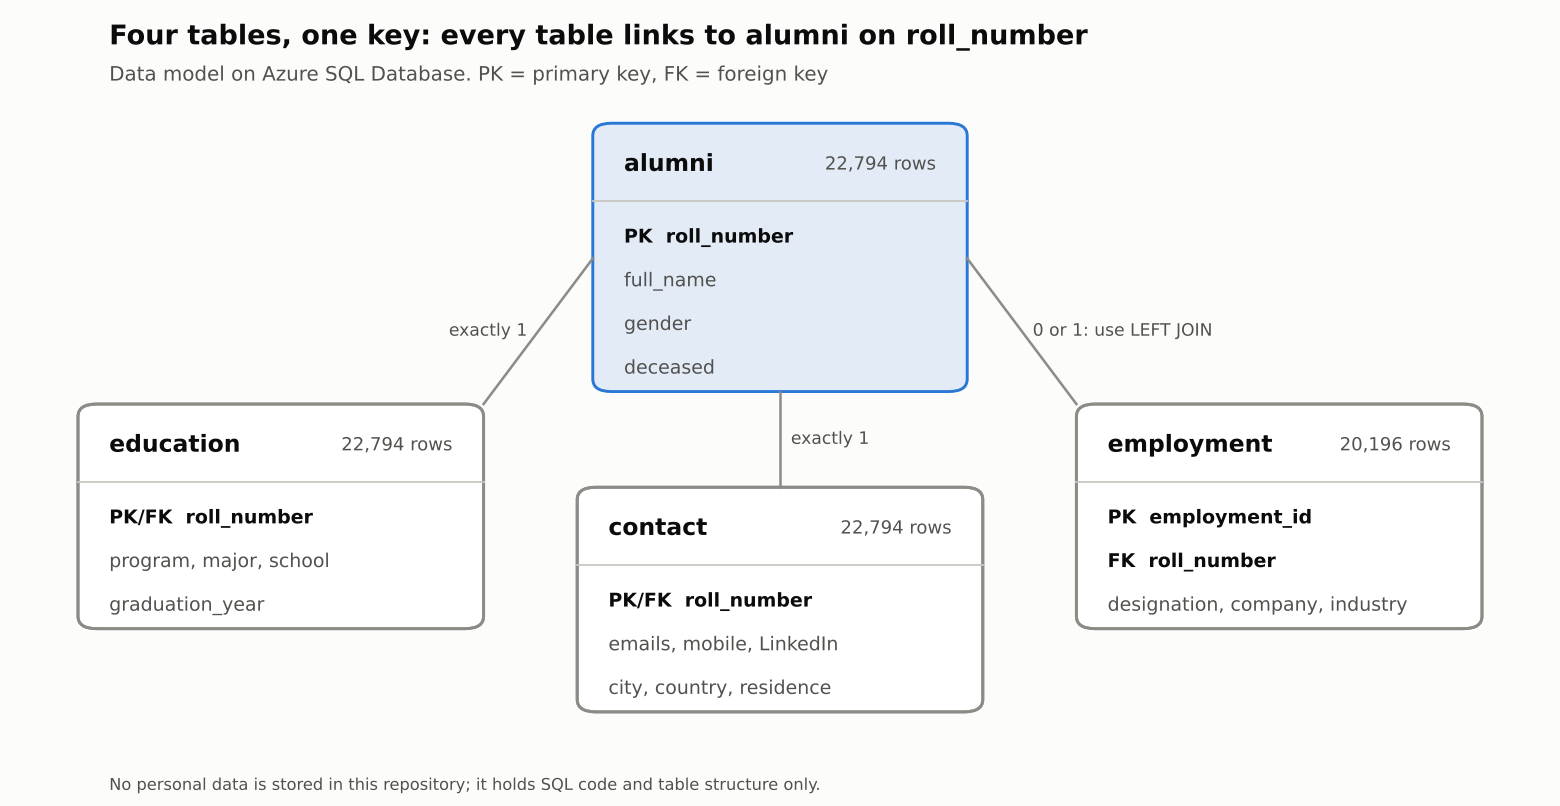
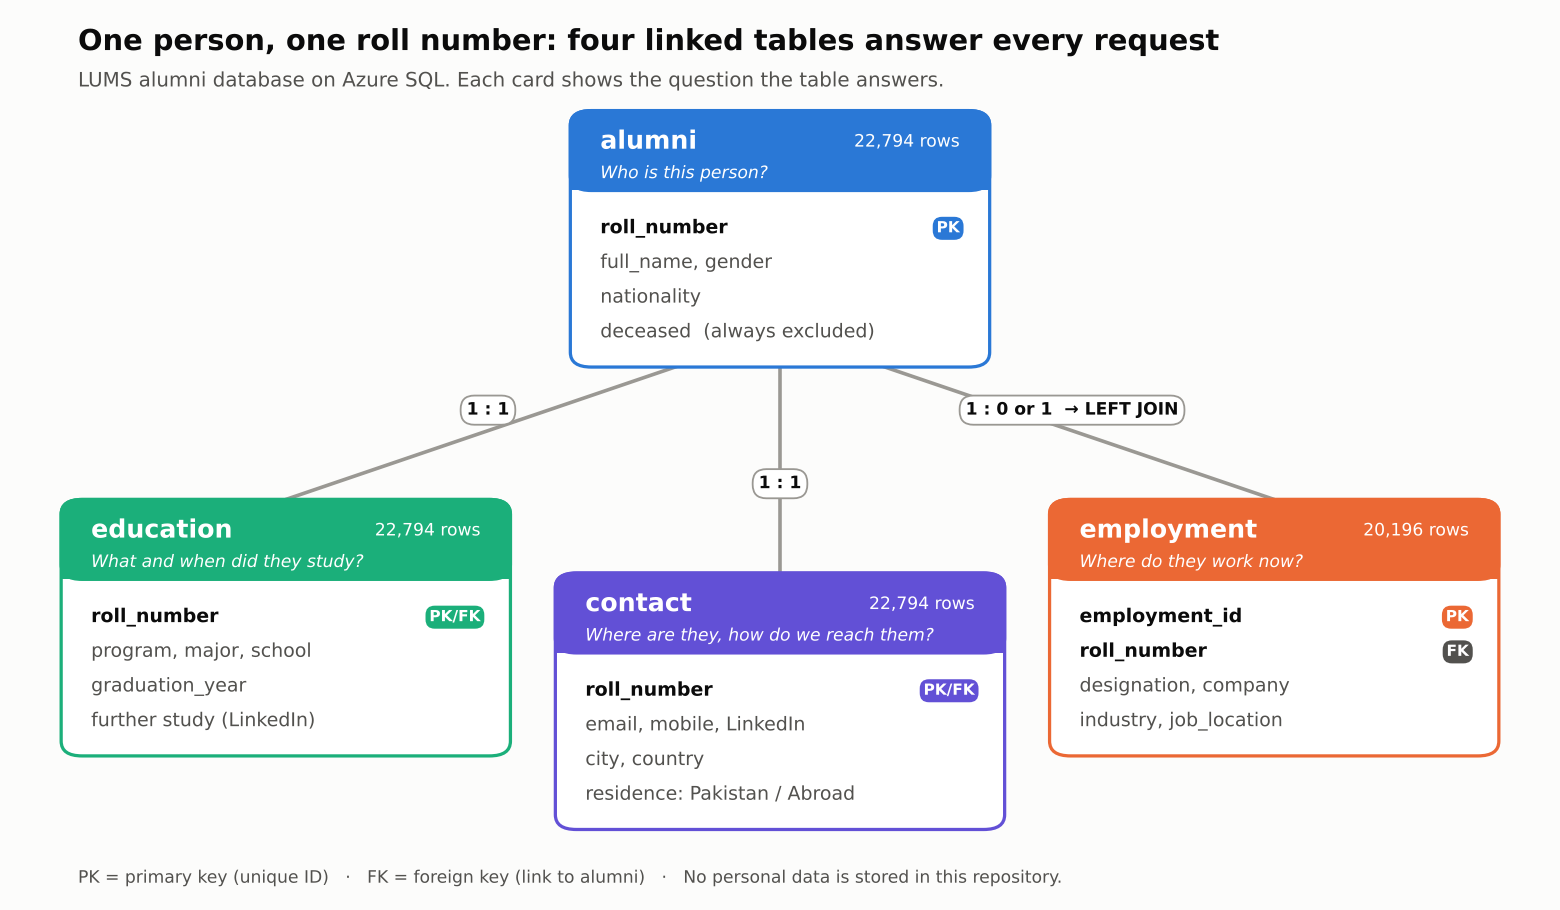
README: who I deliver data for, request workflow diagram, new data model diagram

Changed region(s): [[0.0308, 0.031, 0.9846, 0.9305], [0.0615, 0.9615, 0.5846, 0.9926], [0.6154, 0.9615, 0.6769, 0.9926]]

diff --git a/docs/make_diagrams.py b/docs/make_diagrams.py
@@ -1,0 +1,112 @@
+"""Draws the two diagrams used in the README (no data is read; structure only).
+
+    python docs/make_diagrams.py
+"""
+import matplotlib.pyplot as plt
+from matplotlib.patches import FancyBboxPatch
+
+INK, INK2, LINE, SURFACE = "#0b0b0b", "#52514e", "#9a9893", "#fcfcfb"
+BLUE, AQUA, VIOLET, ORANGE = "#2a78d6", "#1baf7a", "#6250d6", "#eb6834"
+plt.rcParams.update({"font.family": "DejaVu Sans", "figure.facecolor": SURFACE})
+
+
+def rbox(ax, x, y, w, h, fc, ec, lw=1.4, r=1.4, z=2):
+    ax.add_patch(FancyBboxPatch((x, y), w, h, boxstyle=f"round,pad=0,rounding_size={r}",
+                                fc=fc, ec=ec, lw=lw, zorder=z))
+
+
+def badge(ax, x, y, text, color, ha="left"):
+    ax.text(x, y, text, fontsize=8.5, fontweight="bold", color="white", va="center", ha=ha, zorder=6,
+            bbox=dict(boxstyle="round,pad=0.25,rounding_size=0.6", fc=color, ec="none"))
+
+
+def table(ax, x, y_top, w, name, color, rows, question, columns):
+    """A table card: coloured header, the question it answers, its columns."""
+    row_h, head_h = 3.3, 7.6
+    h = head_h + 3.6 + row_h * len(columns)
+    rbox(ax, x, y_top - h, w, h, "white", color, lw=1.8)
+    rbox(ax, x, y_top - head_h, w, head_h, color, color, lw=1.8)
+    ax.add_patch(plt.Rectangle((x + 0.05, y_top - head_h), w - 0.1, 1.6, fc=color, ec="none", zorder=3))
+    ax.text(x + 2, y_top - 3.0, name, fontsize=14, fontweight="bold", color="white", va="center", zorder=4)
+    ax.text(x + w - 2, y_top - 3.0, rows, fontsize=9.5, color="white", va="center", ha="right", zorder=4)
+    ax.text(x + 2, y_top - 6.0, question, fontsize=9.5, color="white", va="center", style="italic", zorder=4)
+    yy = y_top - head_h - 3.6
+    for col in columns:
+        if col.startswith(("PK ", "FK ", "PK/FK ")):
+            tag, name_ = col.split(" ", 1)
+            ax.text(x + 2, yy, name_, fontsize=10.5, fontweight="bold", color=INK, va="center", zorder=6)
+            badge(ax, x + w - 2, yy, tag, color if tag != "FK" else INK2, ha="right")
+        else:
+            ax.text(x + 2, yy, col, fontsize=10.5, color=INK2, va="center", zorder=6)
+        yy -= row_h
+    return y_top - h
+
+
+def pill(ax, x, y, text):
+    ax.text(x, y, text, fontsize=9.5, fontweight="bold", color=INK, ha="center", va="center", zorder=7,
+            bbox=dict(boxstyle="round,pad=0.35,rounding_size=0.8", fc="white", ec=LINE, lw=1))
+
+
+def data_model(path):
+    fig = plt.figure(figsize=(12, 7.0))
+    fig.text(0.05, 0.945, "One person, one roll number: four linked tables answer every request",
+             fontsize=16, fontweight="bold", color=INK)
+    fig.text(0.05, 0.905, "LUMS alumni database on Azure SQL. Each card shows the question the table answers.",
+             fontsize=11, color=INK2)
+    ax = fig.add_axes([0.02, 0.07, 0.96, 0.82]); ax.set_xlim(0, 100); ax.set_ylim(7, 78); ax.axis("off")
+
+    # links first, so cards sit on top
+    for (x1, y1, x2, y2) in [(50, 56, 17, 40), (50, 56, 50, 33), (50, 56, 83, 40)]:
+        ax.plot([x1, x2], [y1, y2], color=LINE, lw=2, zorder=1, solid_capstyle="round")
+    pill(ax, 30.5, 48.5, "1 : 1")
+    pill(ax, 50, 41.5, "1 : 1")
+    pill(ax, 69.5, 48.5, "1 : 0 or 1  → LEFT JOIN")
+
+    table(ax, 36, 77, 28, "alumni", BLUE, "22,794 rows", "Who is this person?",
+          ["PK roll_number", "full_name, gender", "nationality", "deceased  (always excluded)"])
+    table(ax, 2, 40, 30, "education", AQUA, "22,794 rows", "What and when did they study?",
+          ["PK/FK roll_number", "program, major, school", "graduation_year", "further study (LinkedIn)"])
+    table(ax, 35, 33, 30, "contact", VIOLET, "22,794 rows", "Where are they, how do we reach them?",
+          ["PK/FK roll_number", "email, mobile, LinkedIn", "city, country", "residence: Pakistan / Abroad"])
+    table(ax, 68, 40, 30, "employment", ORANGE, "20,196 rows", "Where do they work now?",
+          ["PK employment_id", "FK roll_number", "designation, company", "industry, job_location"])
+
+    fig.text(0.05, 0.03, "PK = primary key (unique ID)   ·   FK = foreign key (link to alumni)   ·   "
+             "No personal data is stored in this repository.", fontsize=9.5, color=INK2)
+    fig.savefig(path, dpi=130); plt.close(fig); print("saved", path)
+
+
+def request_flow(path):
+    steps = [
+        ("Receive", "a request from\na department"),
+        ("Understand", "the purpose and\nwho it is for"),
+        ("Define", "who to include:\nalumni or not,\nwhere, batch, role"),
+        ("Query", "SQL on the\n4 linked tables"),
+        ("Validate", "CRM and LinkedIn,\nno duplicates,\nno deceased"),
+        ("Deliver", "in their format,\nthen invitations\nand calls"),
+    ]
+    colors = [INK2, INK2, BLUE, BLUE, BLUE, AQUA]
+    fig = plt.figure(figsize=(12, 3.4))
+    fig.text(0.05, 0.9, "From request to verified list: how every data request is handled",
+             fontsize=16, fontweight="bold", color=INK)
+    fig.text(0.05, 0.81, "The same six steps for event invitations, delegations, reunions, rankings and internal reports",
+             fontsize=11, color=INK2)
+    ax = fig.add_axes([0.02, 0.04, 0.96, 0.72]); ax.set_xlim(0, 100); ax.set_ylim(4, 28); ax.axis("off")
+    w, gap, x0 = 14.2, 2.4, 2.5
+    for i, ((verb, detail), c) in enumerate(zip(steps, colors)):
+        x = x0 + i * (w + gap)
+        rbox(ax, x, 6, w, 20, "white", c, lw=1.8)
+        ax.scatter([x + 2.9], [22.2], s=330, color=c, zorder=4)
+        ax.text(x + 2.9, 22.2, str(i + 1), fontsize=10.5, fontweight="bold", color="white", ha="center",
+                va="center", zorder=5)
+        ax.text(x + 1.6, 17.6, verb, fontsize=12, fontweight="bold", color=INK, va="center", zorder=5)
+        ax.text(x + 1.6, 14.6, detail, fontsize=9.6, color=INK2, va="top", linespacing=1.45, zorder=5)
+        if i < len(steps) - 1:
+            ax.annotate("", (x + w + gap - 0.2, 16), (x + w + 0.2, 16),
+                        arrowprops=dict(arrowstyle="-|>", color=LINE, lw=1.6, mutation_scale=14))
+    fig.savefig(path, dpi=130); plt.close(fig); print("saved", path)
+
+
+if __name__ == "__main__":
+    data_model("docs/data_model.png")
+    request_flow("docs/request_flow.png")

diff --git a/README.md b/README.md
@@ -1,6 +1,6 @@
 # LUMS Alumni Analytics – SQL Project
 
-I manage the LUMS alumni database (44,000+ records) in the Office of Advancement and answer **data requests from multiple departments every day**. This repository shows how that work is done: a clean relational database on **Azure SQL**, validated, and queried with **T-SQL** to deliver accurate lists and reports on time.
+I manage the LUMS alumni database (44,000+ records) in the Office of Advancement and turn **data requests from departments across the university into accurate, verified lists, every day**. This repository shows how: a relational database on **Azure SQL**, validated, and queried with **T-SQL**.
 
 > **No personal data is stored in this repository.** It holds SQL code, table structure and documentation only. The practice database used here has 22,794 records.
 
@@ -8,25 +8,29 @@ I manage the LUMS alumni database (44,000+ records) in the Office of Advancement
 
 | | |
 |---|---|
-| **Database** | Azure SQL Database, 4 tables linked by `roll_number` |
-| **Records** | 22,794 alumni (practice set; the full database has 44,000+) |
+| **Database** | Azure SQL Database: 4 tables linked by `roll_number` |
+| **Records** | 22,794 in this practice set (the full database has 44,000+) |
 | **Requests documented** | 8 real requests, a sample of everyday work |
-| **Tools** | T-SQL, Excel, Python, Git |
+| **Tools** | T-SQL, Excel, CRM, Power BI, Python, Git |
 
-## The work behind LUMS events
+## Who I deliver data for
 
-Most alumni events and visits at LUMS start with a data request. Typical requests I deliver:
-
-| Event or need | Data delivered |
+| Requester | What they need |
 |---|---|
-| **New York reunion** and the **LUMS at 40 Gala in New York** (hosted by Friends of LUMS USA) | Alumni working or studying in the US, by city and seniority |
-| **UK and Canada reunions** (London, Toronto) | Alumni living or working in each country, with current contact details |
-| **Ambassador and delegation visits** to LUMS | Alumni living, working or studying in the visiting country |
-| **Alumni Homecoming** and the **Alumni Achievement Awards** | Batch lists, award winners and their current details |
-| **University rankings** (QS) and internal reports | Counts and lists in the requester's own template |
-| **Department and team visits** in Pakistan | Alumni by city, with a flag for how sure we are they live there now |
+| **American Business Forum (ABF) and LUMS events** | Alumni and non-alumni attendee lists for invitations, including an event with the IT Minister and a follow-up event in Islamabad |
+| **International delegations** (Japan, US, UK and others) | Alumni relevant to each delegation, by country, sector or role |
+| **Alumni Relations and events** | Reunion lists: New York, UK and Canada reunions, the LUMS at 40 Gala in New York, Homecoming and the Alumni Achievement Awards |
+| **Office of Advancement** | Alumni for networking, mentoring and fundraising outreach; engagement reporting; data for rankings such as QS |
+| **Security Office** | Verified alumni details for alumni car stickers and their collection |
+| **IT and administration** | Alumni data and requirements for the alumni portal (LUMS Connect) |
 
-Every list is checked before it goes out: duplicates removed, deceased alumni excluded, totals reconciled, and uncertain matches flagged for a person to review.
+Typical fields: name, email, phone, LinkedIn, employer, designation, department, industry, city, country, education and alumni status, always limited to what the request needs.
+
+## How every request is handled
+
+![From request to verified list](docs/request_flow.png)
+
+Every list is checked before it goes out: duplicates removed, deceased alumni excluded, totals reconciled, and uncertain matches flagged for a person to review. Where needed, I support the follow-up with email and telephone invitations.
 
 ## Workflow
 
@@ -40,7 +44,7 @@ Every list is checked before it goes out: duplicates removed, deceased alumni ex
 | 4. Analyse | [`04_analysis/`](04_analysis/) | KPI summary, year-on-year trends, running totals, age bands, top employers per school, healthcare alumni |
 | 5. Answer requests | [`05_work_requests/`](05_work_requests/) | Real requests from colleagues – each file states the request, approach, quality checks and result |
 | Continuous learning | [`06_learning_log/`](06_learning_log/) | Deliberate T-SQL practice alongside daily work, with the lesson from each session recorded |
-| Reference | [`docs/`](docs/) | [Data model](docs/data_model.md) and [data dictionary](docs/data_dictionary.md) |
+| Reference | [`docs/`](docs/) | [Data model](docs/data_model.md), [data dictionary](docs/data_dictionary.md) and the diagram code |
 
 ## Data model
 
@@ -48,16 +52,9 @@ Four tables linked by `roll_number`. Full details: [data model](docs/data_model.
 
 ![Data model](docs/data_model.png)
 
-| Table | Rows | Relationship to `alumni` |
-|---|---|---|
-| `alumni` | 22,794 | – |
-| `education` | 22,794 | exactly one per person |
-| `contact` | 22,794 | exactly one per person |
-| `employment` | 20,196 | zero or one per person → use `LEFT JOIN` for all alumni |
-
 ## Sample requests (one file each)
 
-Each file states the request, the approach, the quality checks and the result. Requests 06–08 were all delivered on a single day.
+Each file states the request, the approach, the quality checks and the result. Requests 06–08 were all delivered on a single, ordinary day.
 
 | # | Request | Result |
 |---|---|---|
